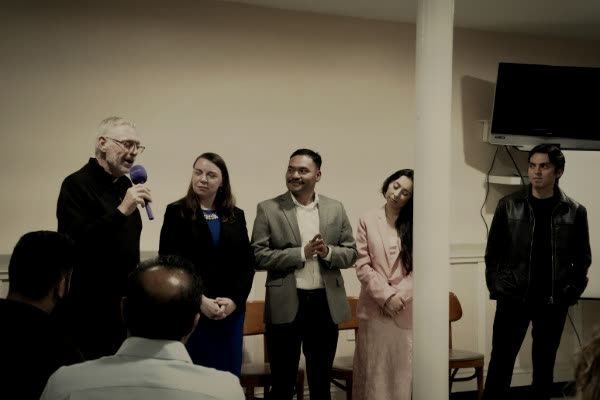
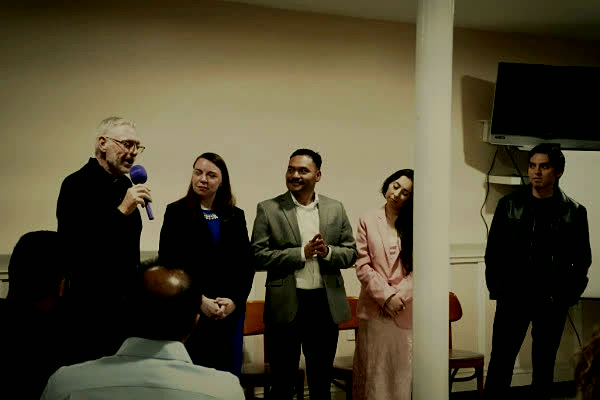
Grade the event photography; the slats had no colour to work with
The slat strip read as one muddy band. Measuring the source explains why: not
one photo had true blacks or whites (Ymin 59-99, Ymax 189-206, all crushed into
the middle of the range) and saturation sat at 9-14 out of 255 — very close to
monochrome.

Graded from the originals: tonal range opened with the highlights protected,
partial white balance, saturation restored, and alternating exposure so the row
has a light/dark beat instead of six identical midtones. Mean saturation 10.4 ->
15.3, brightness spread across the row 40 -> 43. Each slat also crops onto its
own subject rather than centre-cropping onto the wall.

Worth recording for whoever picks this up: full white-balance correction was
tried and rejected on measurement. Neutralising the cast drops saturation
roughly one-for-one (at full correction, chroma fell to 5-8) because in these
frames the chroma IS the tungsten cast. Warm walls under warm light leave you
a choice between beige and grey, not vivid. The remaining warmth is therefore
deliberate, and the real fix is better source imagery, not a better grade.

Untouched originals kept locally at assets/photos/_original.

diff --git a/styles.css b/styles.css
@@ -911,3 +911,13 @@ cite { font-style: normal; }
   .band-dark { padding-block: var(--s7) var(--s7); }
   .band-dark__art img { object-position: 50% 60%; }
 }
+
+/* Each slat frames its own subject instead of centre-cropping onto the wall —
+   the beige is the room, and the crop is the only real lever on it. */
+.slats__item img { object-position: 50% 50%; }
+.slats__item:nth-child(1) img { object-position: 42% 58%; }
+.slats__item:nth-child(2) img { object-position: 52% 46%; }
+.slats__item:nth-child(3) img { object-position: 46% 52%; }
+.slats__item:nth-child(4) img { object-position: 50% 56%; }
+.slats__item:nth-child(5) img { object-position: 38% 48%; }
+.slats__item:nth-child(6) img { object-position: 58% 50%; }
